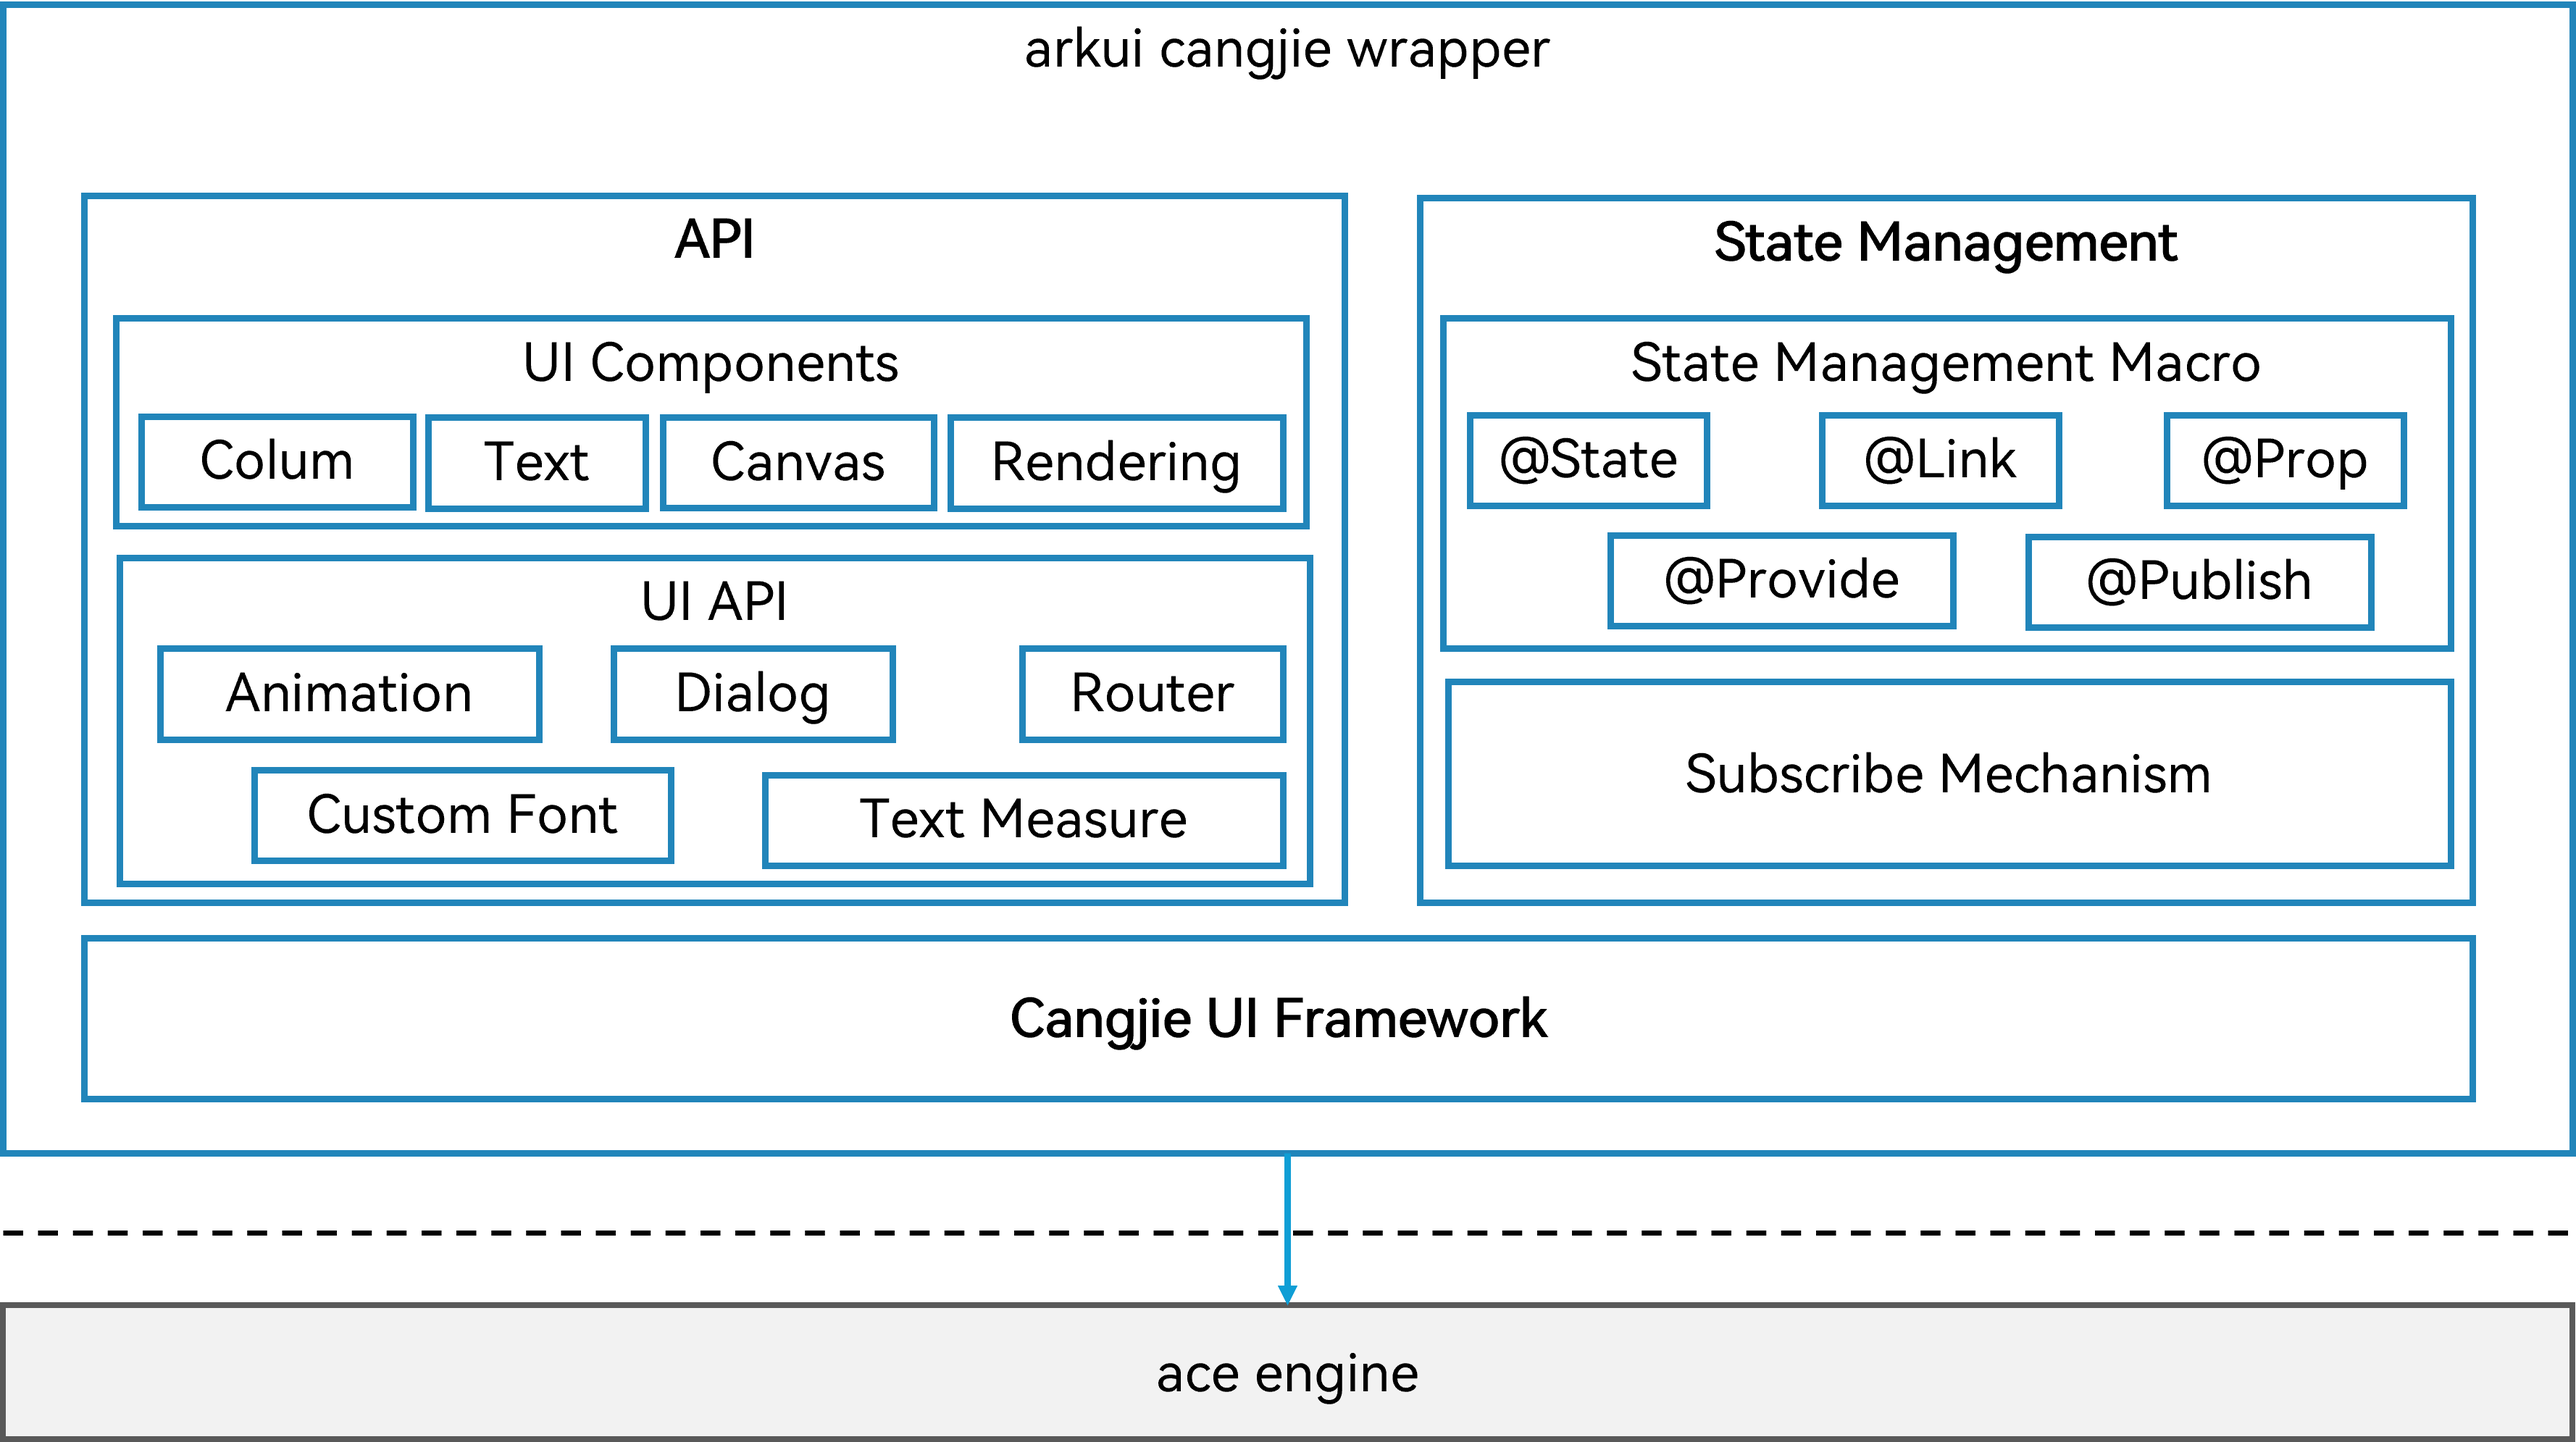
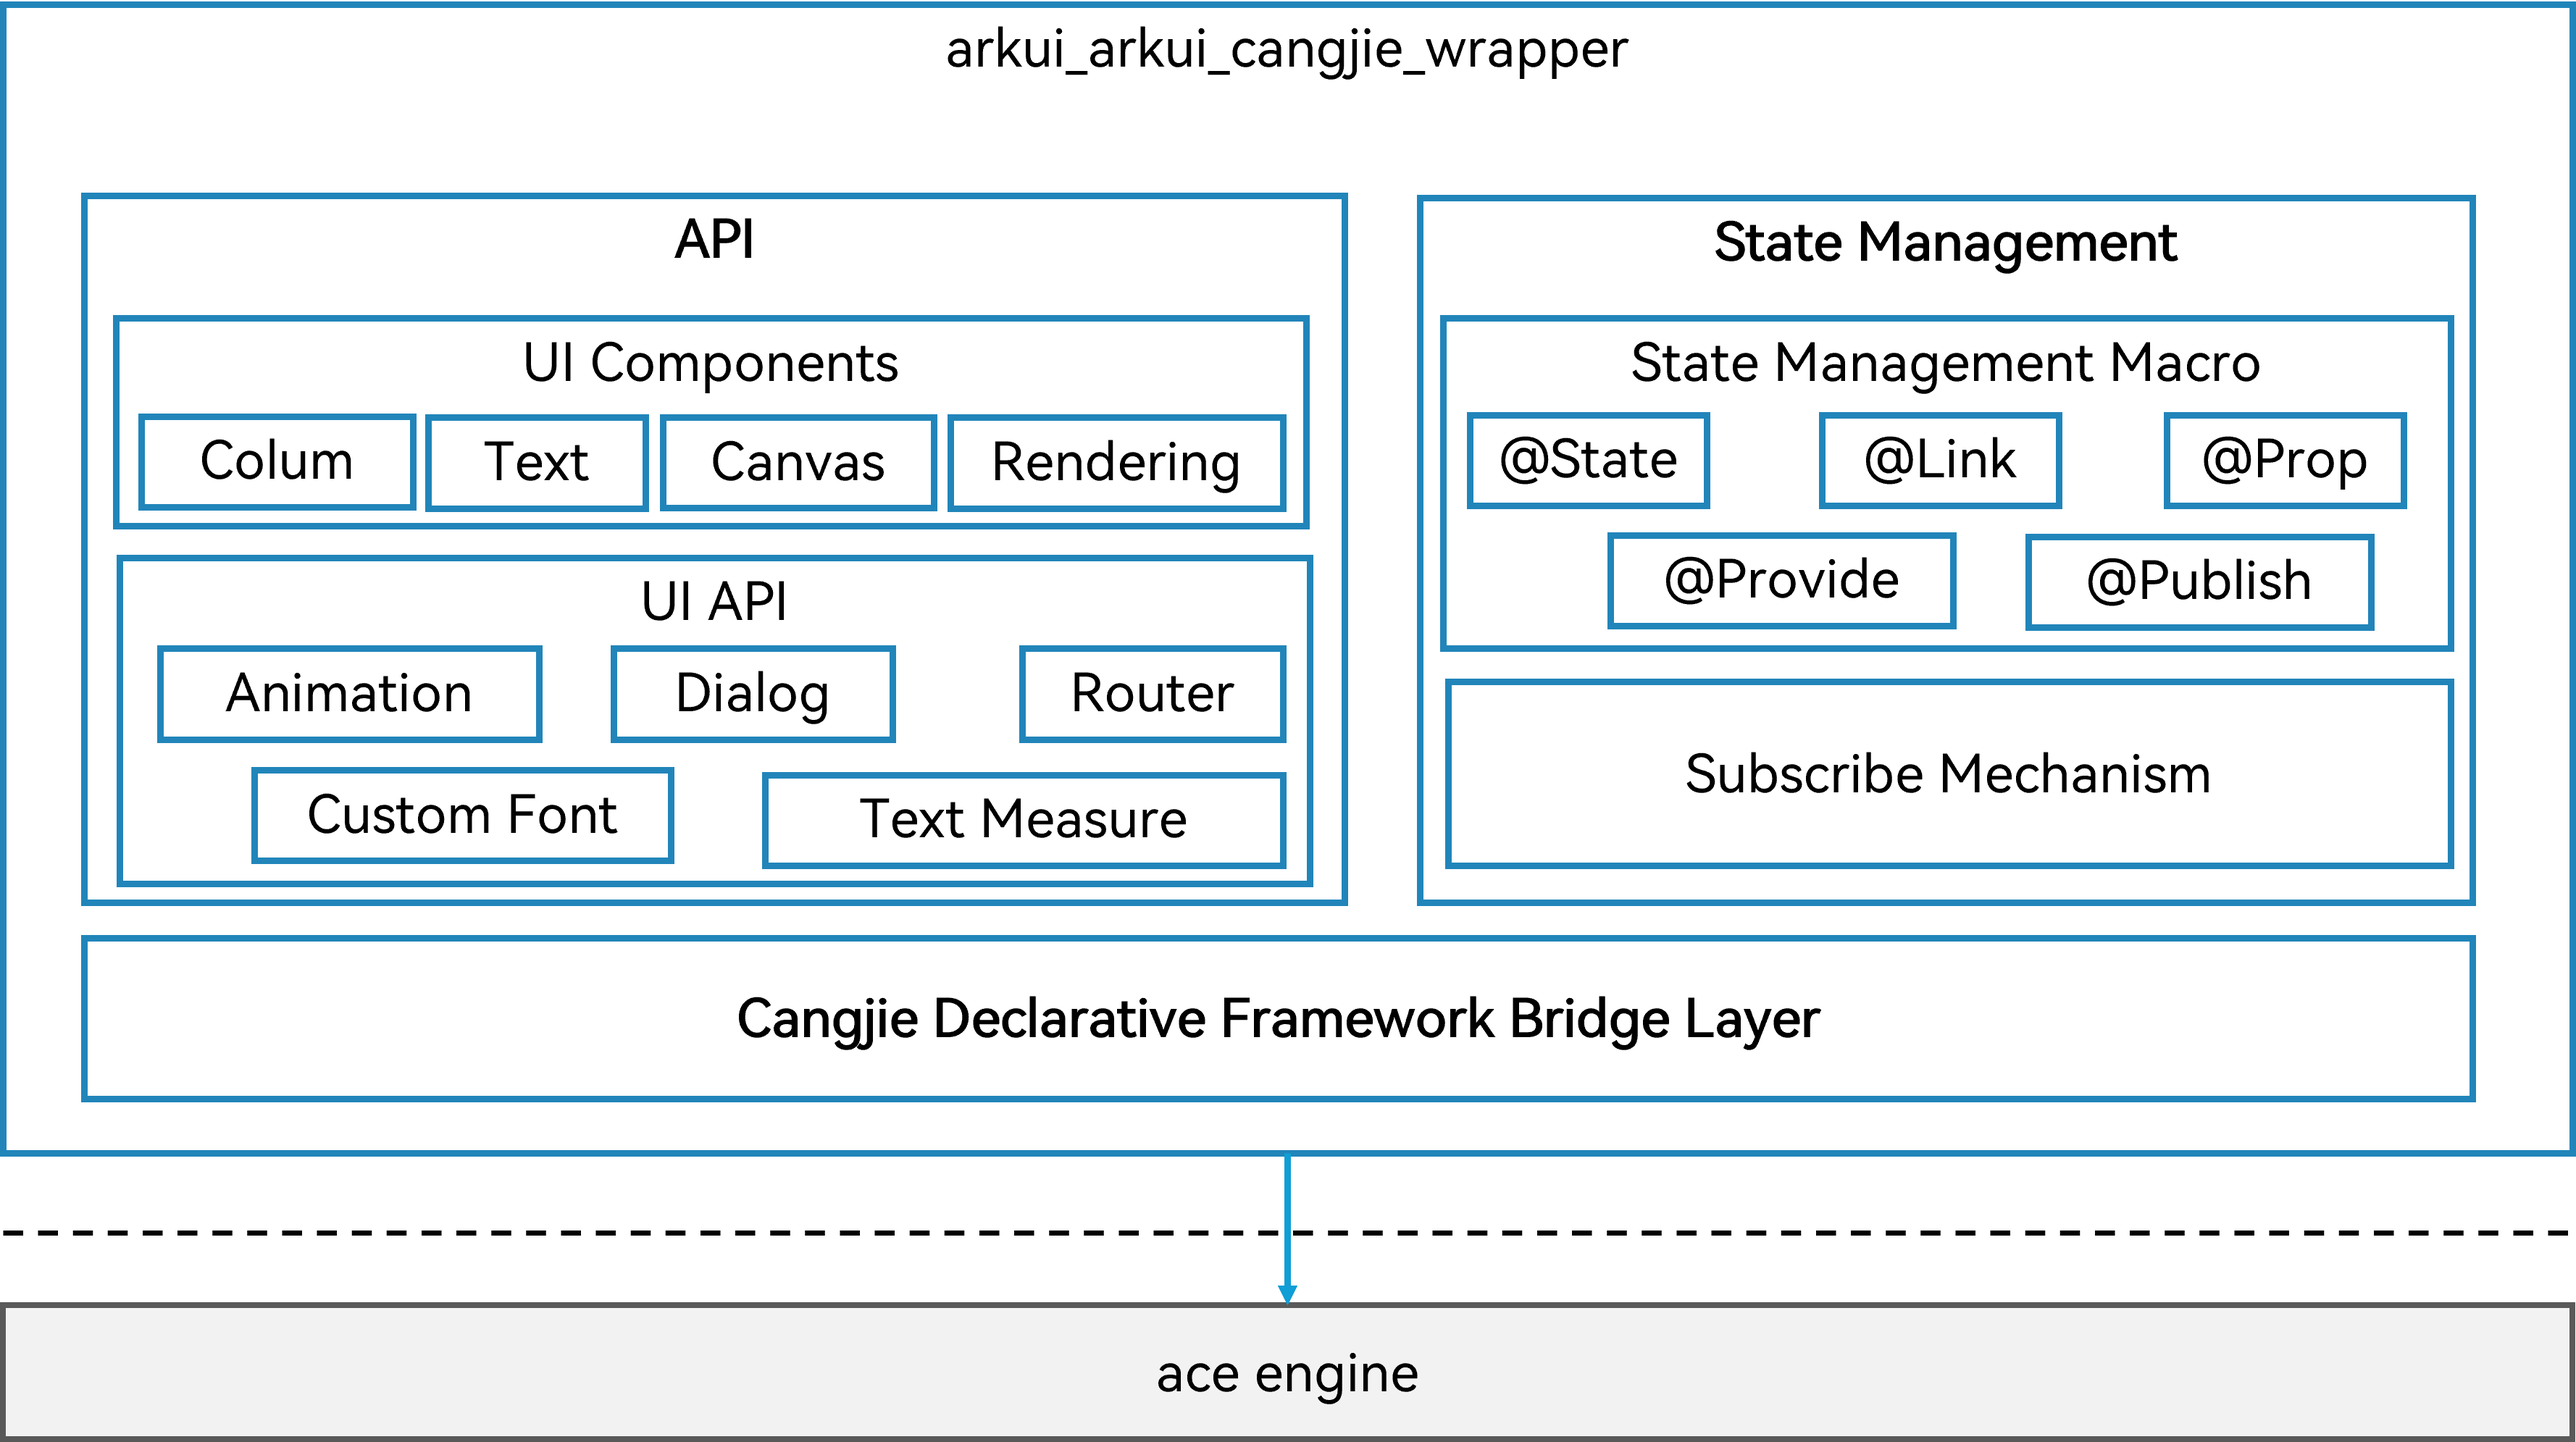
fix review comments

Changed region(s): [[0.2809, 0.6851, 0.7179, 0.7474], [0.3746, 0.0, 0.6243, 0.0623]]

diff --git a/README_zh.md b/README_zh.md
@@ -1,30 +1,34 @@
-# 仓颉ArkUI开发框架<a name="ZH-CN_TOPIC_0000001076213364"></a>
+# ArkUI开发框架仓颉接口<a name="ZH-CN_TOPIC_0000001076213364"></a>
 
 -   [简介](#section15701932113019)
 -   [目录](#section1791423143211)
--   [使用场景](#section171384529150)
--   [编译构建](#section171384529151)
+-   [使用说明](#section171384529150)
 -   [开发者文档](#section171384529152)
--   [如何参与](#section171384529153)
--   [约束](#section171384529154)
+-   [参与贡献](#section171384529153)
 -   [相关仓](#section1447164910172)
 
 ## 简介<a name="section15701932113019"></a>
 
-仓颉ArkUI框架是OpenHarmony上的声明式UI开发框架，提供开发者进行应用UI开发时所必需的能力，包括状态管理、UI组件、动画、绘制、交互事件等。
+ArkUI开发框架仓颉接口是在OpenHarmony上基于ArkUI开发框架封装的仓颉声明式UI框架，提供开发者进行应用UI开发时所必需的能力，包括状态管理、UI组件、动画、绘制、交互事件等。当前开放的ArkUI开发框架仓颉接口仅支持standard设备。
 
 其主要结构如下图所示：
 
-![仓颉ArkUI框架](./figures/arkui_arkui_cangjie_wrapper.png)
+![仓颉ArkUI开发框架](./figures/arkui_arkui_cangjie_wrapper.png)
 
+如架构图所示：
+
+- UI组件API：提供内置基础组件，包括文本类组件，布局类组件，绘制类组件等，相关API请参考[UI组件](https://gitcode.com/openharmony-sig/arkcompiler_cangjie_ark_interop/blob/master/doc/API_Reference/source_zh_cn/arkui-cj/cj-row-column-stack-flex.md)。
+- 非UI组件API：提供UI界面控制相关能力，包括曲线插值计算，动画动效，自定义字体，页面路由等，相关API请参考[UI界面](https://gitcode.com/openharmony-sig/arkcompiler_cangjie_ark_interop/blob/master/doc/API_Reference/source_zh_cn/arkui-cj/cj-apis-curves.md)。
+- 状态管理：提供状态监听能力，包括状态变化驱动UI界面刷新，相关API请参考[状态管理](https://gitcode.com/openharmony-sig/arkcompiler_cangjie_ark_interop/blob/master/doc/API_Reference/source_zh_cn/arkui-cj/cj-state-rendering-componentstatemanagement.md)。
+- 前端桥接层：提供仓颉UI前端和ArkUI引擎层桥接的能力，包括基础组件以及自定义组件等的对接。
 
 ## 目录<a name="section1791423143211"></a>
 
-仓颉ArkUI开发框架源代码在/foundation/arkui/arkui\_cangjie\_wrapper下，目录结构如下图所示：
+ArkUI开发框架仓颉接口源代码在/foundation/arkui/arkui\_cangjie\_wrapper下，目录结构如下图所示：
 
 ```
 /foundation/arkui/arkui_cangjie_wrapper
-├── figures                    # 存放readme中的架构图
+├── figures                    # 存放README中的架构图
 ├── ohos                       # 仓颉ArkUI框架接口层实现
 |   |── animator               # 动画接口
 |   |── arkui                  # 仓颉UI组件接口
@@ -34,18 +38,21 @@
 |   |── measure                # 文本计算
 |   |── prompt_action          # 弹窗
 |   |── router                 # 路由
-├── kit                        # 仓颉 ArkUI Kit 层实现
+├── kit                        # 仓颉 ArkUI Kit化接口
 ```
 
-## 使用场景<a name="section171384529150"></a>
+## 使用说明<a name="section171384529150"></a>
 
-仓颉ArkUI框架提供了丰富的、功能强大的UI组件、样式定义，组件之间相互独立，随取随用，也可以在需求相同的地方重复使用。开发者还可以通过组件间合理的搭配定义满足业务需求的新组件，减少开发量。
+ArkUI开发框架仓颉接口提供了丰富的、功能强大的UI组件、样式定义，组件之间相互独立，随取随用，也可以在需求相同的地方重复使用。开发者还可以通过组件间合理的搭配定义满足业务需求的新组件，减少开发量。
 
-## 编译构建<a name="section171384529151"></a>
+提供的能力范围包括：
+- 内置组件：通用事件，通用属性，容器类组件，绘制类组件
+- 自定义组件：自定义组件生命周期，组件嵌套组合
+- 状态管理：组件级变量状态管理，应用级变量状态管理
 
-```bash
-./build.sh --product-name rk3568 --target-cpu=arm64 --build-target arkui_cangjie_wrapper
-```
+与ArkTS相比，暂不支持以下功能：
+- 状态管理V2
+- 命令式相关接口：包括FrameNode，RenderNode等
 
 ## 开发者文档<a name="section171384529152"></a>
 
@@ -53,26 +60,22 @@
 
 [开发指南](https://gitcode.com/openharmony-sig/arkcompiler_cangjie_ark_interop/blob/master/doc/Dev_Guide/source_zh_cn/arkui-cj/cj-ui-development-overview.md)
 
-## 如何参与<a name="section171384529153"></a>
+## 参与贡献<a name="section171384529153"></a>
 
-参与贡献：[如何贡献](https://gitcode.com/openharmony/docs/blob/master/zh-cn/contribute/%E5%8F%82%E4%B8%8E%E8%B4%A1%E7%8C%AE.md)
-
-## 约束<a name="section171384529154"></a>
-
-支持设备类型：standard
+欢迎广大开发者贡献代码、文档等，具体的贡献流程和方式请参见[参与贡献](https://gitcode.com/openharmony/docs/blob/master/zh-cn/contribute/%E5%8F%82%E4%B8%8E%E8%B4%A1%E7%8C%AE.md)。
 
 ## 相关仓<a name="section1447164910172"></a>
 
-[ace_engine](https://gitee.com/openharmony/arkui_ace_engine)
+[arkui_ace_engine](https://gitee.com/openharmony/arkui_ace_engine)
 
-[cangjie_ark_interop](https://gitcode.com/openharmony-sig/arkcompiler_cangjie_ark_interop)
+[arkcompiler_cangjie_ark_interop](https://gitcode.com/openharmony-sig/arkcompiler_cangjie_ark_interop)
 
-[hiviewdfx_cangjie_wrapper](https://gitcode.com/openharmony-sig/hiviewdfx_hiviewdfx_cangjie_wrapper)
+[hiviewdfx_hiviewdfx_cangjie_wrapper](https://gitcode.com/openharmony-sig/hiviewdfx_hiviewdfx_cangjie_wrapper)
 
-[global_cangjie_wrapper](https://gitcode.com/openharmony-sig/global_global_cangjie_wrapper)
+[global_global_cangjie_wrapper](https://gitcode.com/openharmony-sig/global_global_cangjie_wrapper)
 
-[multimedia_cangjie_wrapper](https://gitcode.com/openharmony-sig/multimedia_multimedia_cangjie_wrapper)
+[multimedia_multimedia_cangjie_wrapper](https://gitcode.com/openharmony-sig/multimedia_multimedia_cangjie_wrapper)
 
-[arkweb_cangjie_wrapper](https://gitcode.com/openharmony-sig/arkweb_arkweb_cangjie_wrapper)
+[arkweb_arkweb_cangjie_wrapper](https://gitcode.com/openharmony-sig/arkweb_arkweb_cangjie_wrapper)
 
-[access_token](https://gitee.com/openharmony/security_access_token)
+[security_access_token](https://gitee.com/openharmony/security_access_token)

diff --git a/README.md b/README.md
@@ -1,21 +1,26 @@
-# Cangjie ArkUI Framework<a name="EN-US_TOPIC_0000001076213364"></a>
+# ArkUI Framework Cangjie Interface<a name="EN-US_TOPIC_0000001076213364"></a>
 
 -   [Introduction](#section15701932113019)
 -   [Directory Structure](#section1791423143211)
 -   [When to Use](#section171384529150)
--   [How to Build](#section171384529151)
 -   [Developer Document](#section171384529152)
--   [How to contribute](#section171384529153)
--   [Limiatation](#section171384529154)
+-   [How to Contribute](#section171384529153)
 -   [Repositories Involved](#section1447164910172)
 
 ## Introduction<a name="section15701932113019"></a>
 
-The OpenHarmony Cangjie UI framework provides basic, container, and canvas UI components capabilities, include State Management, UI Components, Animation, Rendering, Events etc.
+The ArkUI Framework Cangjie Interface provides basic, container, and canvas UI components capabilities, include State Management, UI Components, Animation, Rendering, Events etc. ArkUI Framework Cangjie Interface is only available for standard devices.
 
 Framework architecture:
 
 ![Cangjie ArkUI Framework](./figures/arkui_arkui_cangjie_wrapper_en.png)
+
+As shown in the architecture:
+
+- UI Component API: provide basic components, include Text & Input, Layout, Canvas ets, please refer to [UI component](https://gitcode.com/openharmony-sig/arkcompiler_cangjie_ark_interop/blob/master/doc/API_Reference/source_en/arkui-cj/cj-row-column-stack-column.md).
+- UI Control API: provide UI control capabilities, include curves, animator, custom font, router etc, please refer to [UI Control](https://gitcode.com/openharmony-sig/arkcompiler_cangjie_ark_interop/blob/master/doc/API_Reference/source_en/arkui-cj/cj-universal-event-mouse.md).
+- StateManagment: provide state subscribe mechanism, include states change drive UI update, please refer to [StateManage](https://gitcode.com/openharmony-sig/arkcompiler_cangjie_ark_interop/blob/master/doc/API_Reference/source_zh_cn/arkui-cj/cj-state-rendering-componentstatemanagement.md).
+- Declarative Frontend Bridge Layer：provide Bridge Layer for interact between Cangjie Declarative Frontend and ArkUI Engine.
 
 ## Directory Structure<a name="section1791423143211"></a>
 
@@ -40,11 +45,14 @@ The source code of the framework is stored in  **/foundation/arkui/arkui\_cangji
 
 Cangjie UI framework provides various UI components with rich functionalities and style definitions. You can use and reuse any component anywhere as needed. You can customize new components by combining existing ones to simplify development.
 
-## How to Build<a name="section171384529151"></a>
+The following features are provided:
+- Basic Component: General Event, General Attibutes, Render Components
+- Custom Component：LifeCycle of Custom Component
+- StateManage： Component Layer State, Application Layer State
 
-```bash
-./build.sh --product-name rk3568 --target-cpu=arm64 --build-target arkui_cangjie_wrapper
-```
+The following features are not provided yet:
+- State Management V2
+- Imperative Style API: include FrameNode，RenderNode etc
 
 ## Developer Document<a name="section171384529152"></a>
 
@@ -54,25 +62,20 @@ Cangjie UI framework provides various UI components with rich functionalities an
 
 ## How to Contribute<a name="section171384529153"></a>
 
-Contributting：[How to Contribute](https://gitcode.com/openharmony/docs/blob/master/en/contribute/how-to-contribute.md)
-
-## Limitation<a name="section171384529154"></a>
-
-Support device type：standard
+Developers are welcome to contribute code, documentation, etc. For specific contribution processes and methods, please refer to [Code Contribution](https://gitcode.com/openharmony/docs/blob/master/en/contribute/how-to-contribute.md).
 
 ## Repositories Involved<a name="section1447164910172"></a>
 
-[ace_engine](https://gitee.com/openharmony/arkui_ace_engine)
+[arkui_ace_engine](https://gitee.com/openharmony/arkui_ace_engine)
 
-[cangjie_ark_interop](https://gitcode.com/openharmony-sig/arkcompiler_cangjie_ark_interop)
+[arkcompiler_cangjie_ark_interop](https://gitcode.com/openharmony-sig/arkcompiler_cangjie_ark_interop)
 
-[hiviewdfx_cangjie_wrapper](https://gitcode.com/openharmony-sig/hiviewdfx_hiviewdfx_cangjie_wrapper)
+[hiviewdfx_hiviewdfx_cangjie_wrapper](https://gitcode.com/openharmony-sig/hiviewdfx_hiviewdfx_cangjie_wrapper)
 
-[global_cangjie_wrapper](https://gitcode.com/openharmony-sig/global_global_cangjie_wrapper)
+[global_global_cangjie_wrapper](https://gitcode.com/openharmony-sig/global_global_cangjie_wrapper)
 
-[multimedia_cangjie_wrapper](https://gitcode.com/openharmony-sig/multimedia_multimedia_cangjie_wrapper)
+[multimedia_multimedia_cangjie_wrapper](https://gitcode.com/openharmony-sig/multimedia_multimedia_cangjie_wrapper)
 
-[arkweb_cangjie_wrapper](https://gitcode.com/openharmony-sig/arkweb_arkweb_cangjie_wrapper)
+[arkweb_arkweb_cangjie_wrapper](https://gitcode.com/openharmony-sig/arkweb_arkweb_cangjie_wrapper)
 
-[access_token](https://gitee.com/openharmony/security_access_token)
-
+[security_access_token](https://gitee.com/openharmony/security_access_token)
